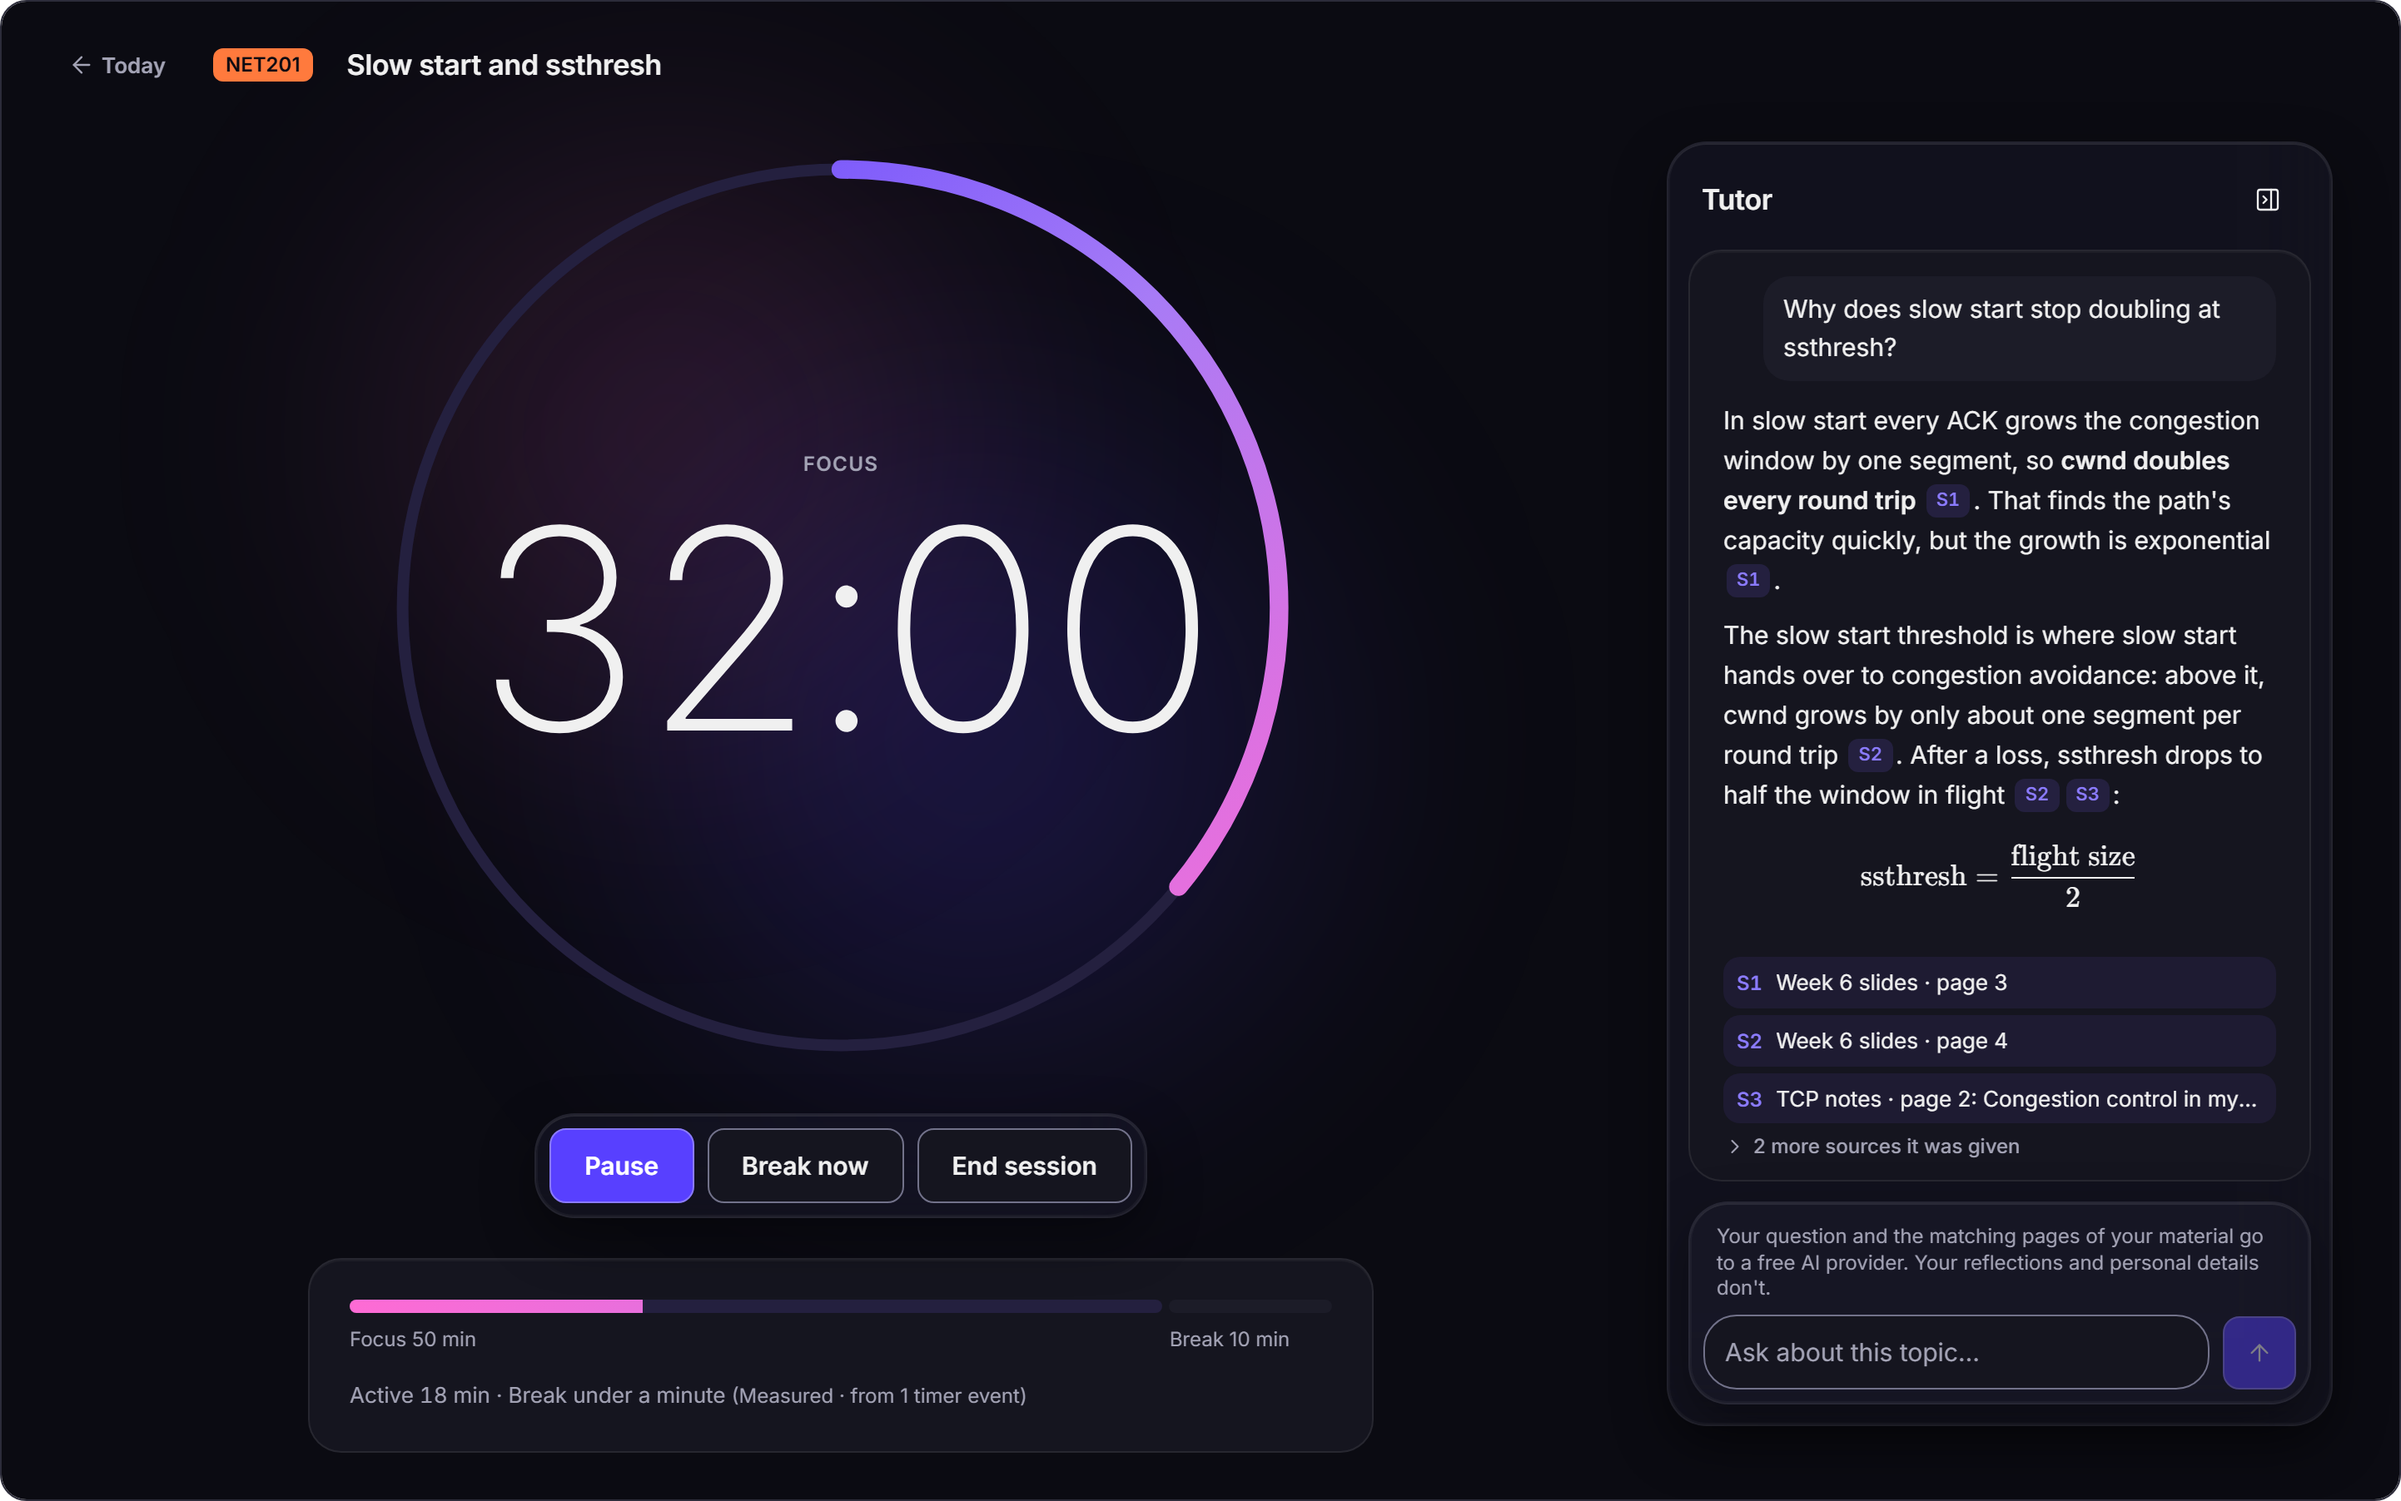
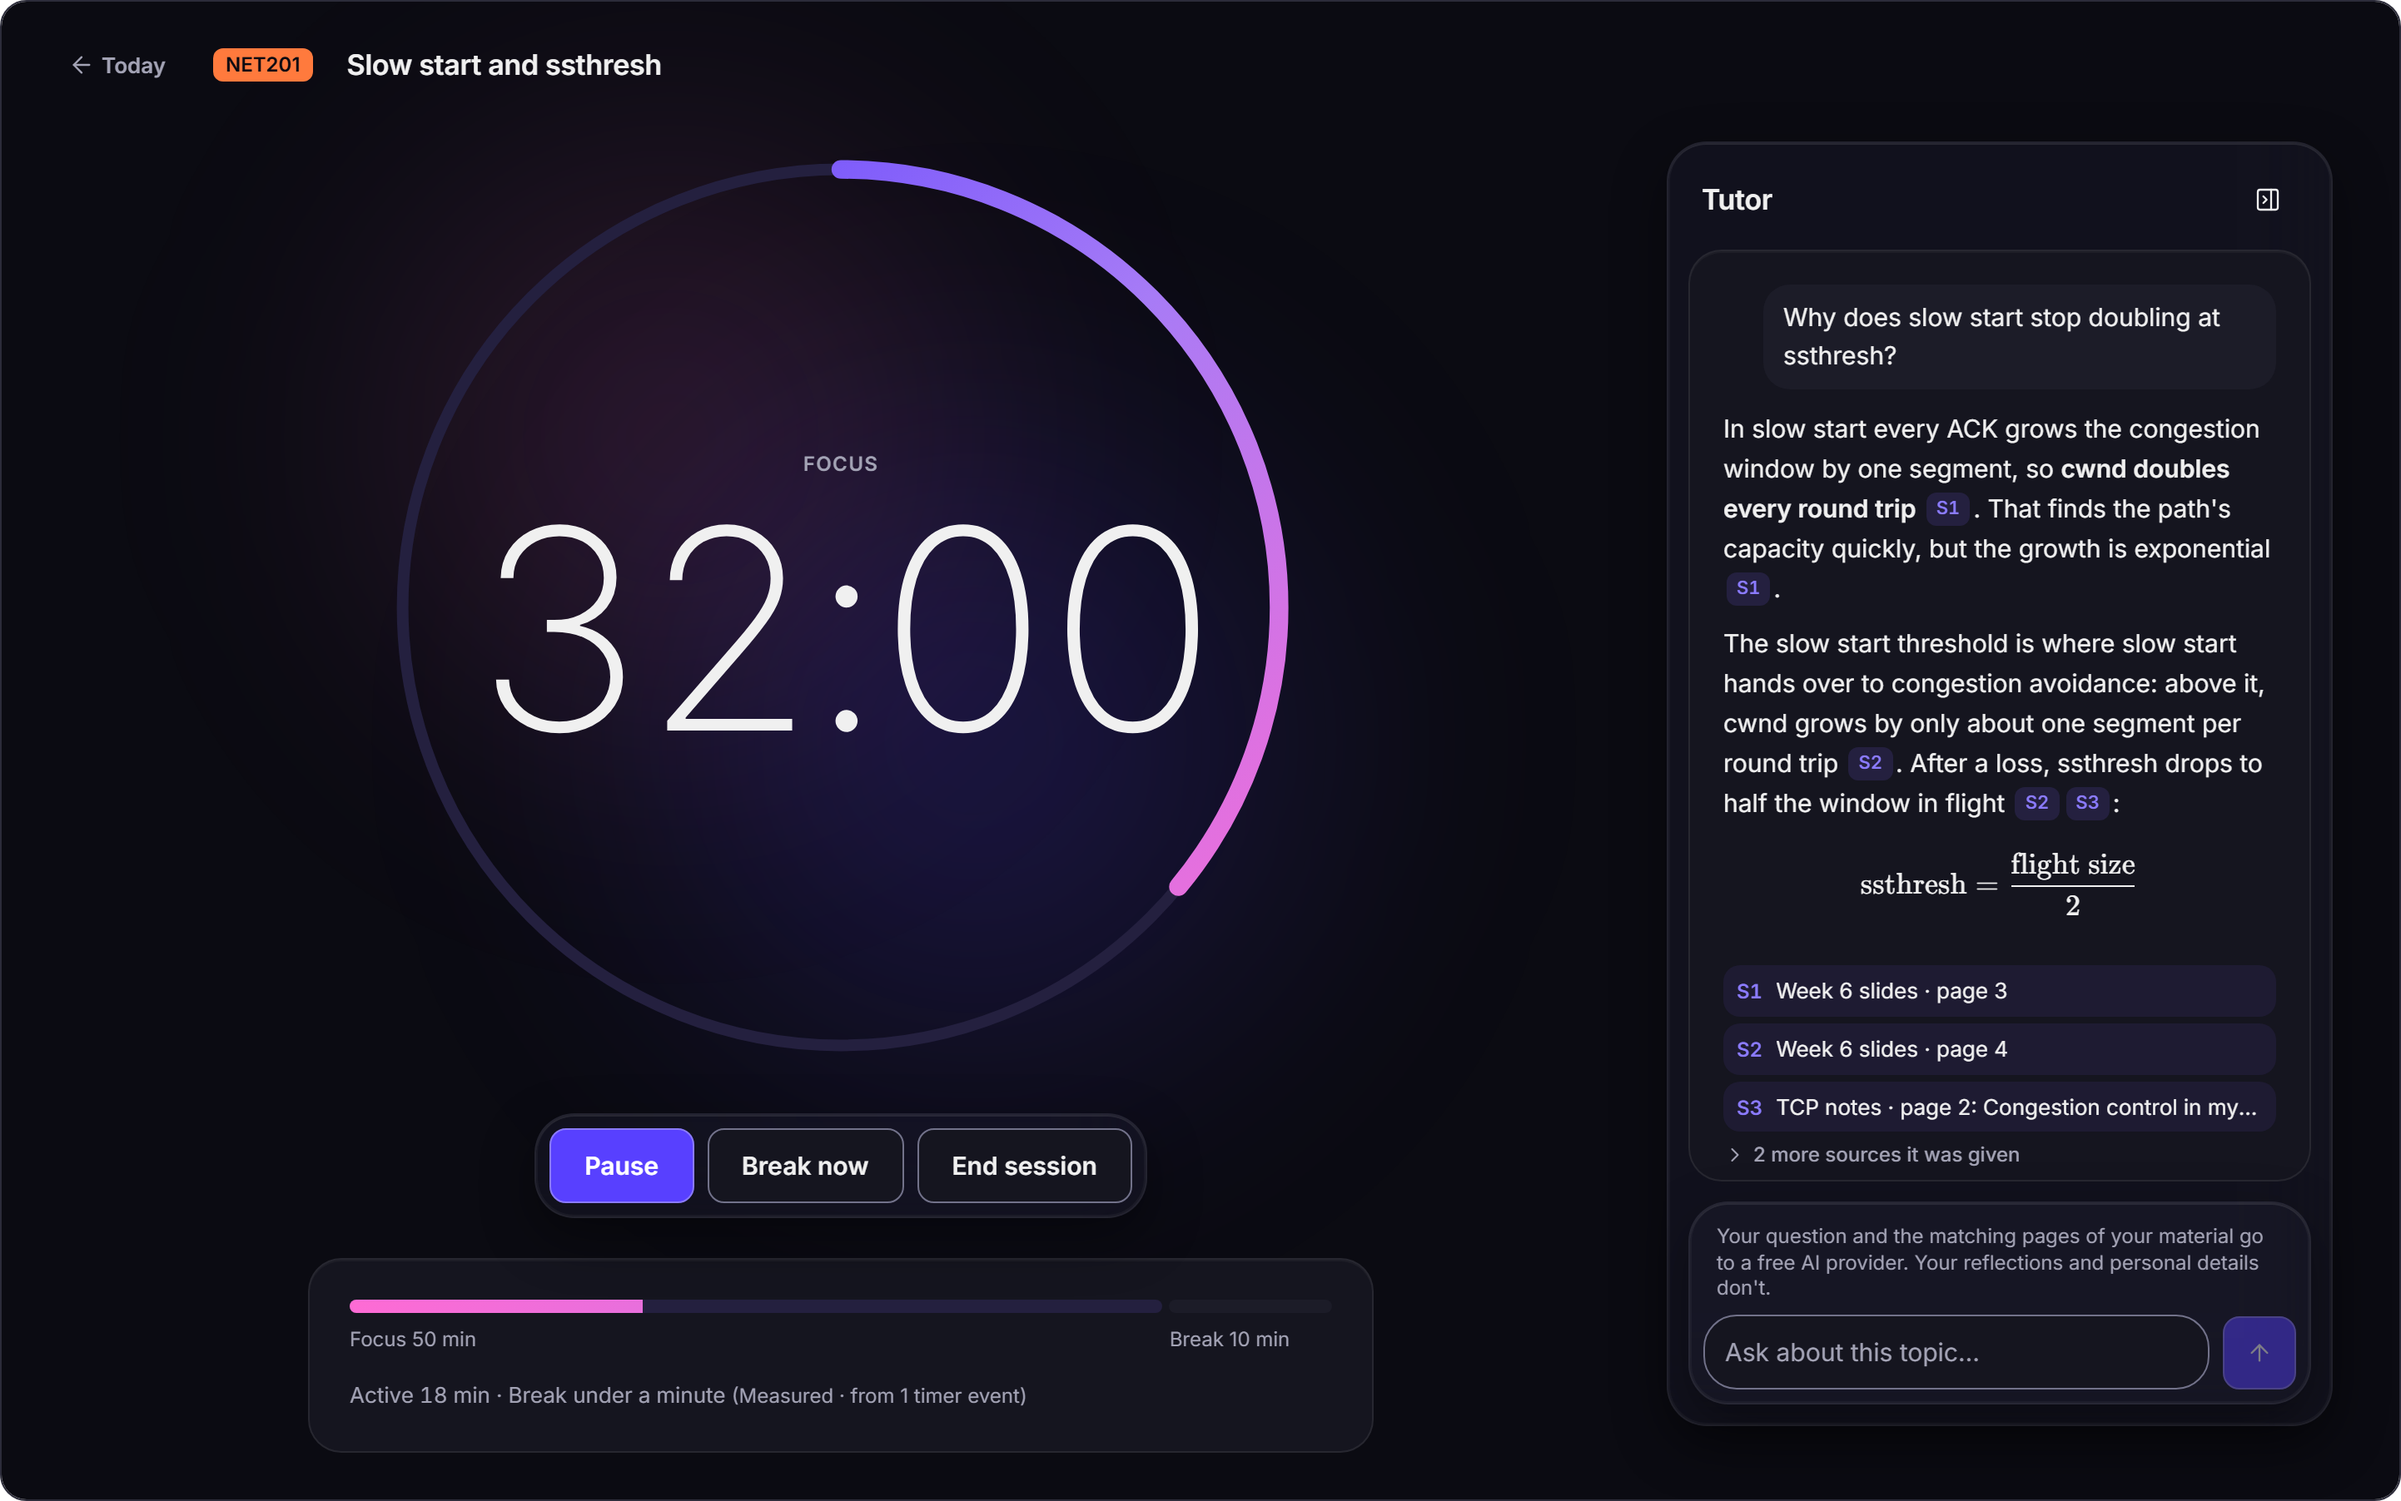
feat: a quiz screenshot (demo fixture quiz), and the session shot shows the answer

Changed region(s): [[0.7178, 0.2794, 0.9362, 0.6208], [0.7178, 0.6519, 0.9362, 0.7761], [0.749, 0.1863, 0.9362, 0.2483]]

diff --git a/apps/api/scripts/demo_seed.py b/apps/api/scripts/demo_seed.py
@@ -12,7 +12,7 @@ and linked to the chunks the way the app does it (cited pages plus local similar
 
 It also opens a study session 18 minutes before ``now``, with one tutor exchange about it: a
 question and a stored answer written for the demo (no AI call), citing the demo's own pages,
-so the session screenshot shows the tutor panel.
+then a "Quiz me" on it, so the session and quiz screenshots show the tutor panel.
 """
 
 import argparse
@@ -42,6 +42,7 @@ from app.models import (
 from app.schemas.academics import AssessmentCreate, ModuleCreate, TaskCreate, TopicCreate
 from app.schemas.materials import MaterialKind
 from app.schemas.sessions import EventBatch, ReflectionIn, SessionStart
+from app.schemas.tutor import Quiz
 from app.services.academics import assessments, modules, tasks, topics
 from app.services.materials import upload_material
 from app.services.search.embedding import get_embedder
@@ -188,6 +189,48 @@ TUTOR_SOURCES = [
     ("S4", "Week 6 slides", 5, False),
     ("S5", "Week 6 slides", 6, False),
 ]
+
+# "Quiz me" on that answer: original questions on the demo's own slides (no AI call).
+TUTOR_QUIZ = {
+    "questions": [
+        {
+            "prompt": "In slow start, how does cwnd grow?",
+            "options": [
+                "By one segment per round trip",
+                "It doubles every round trip",
+                "It halves after every ACK",
+                "It stays fixed until a loss",
+            ],
+            "correct": 1,
+            "explanation": "Each ACK adds one segment, so cwnd doubles every round trip [S1].",
+            "sources": ["S1"],
+        },
+        {
+            "prompt": "What happens to ssthresh after a loss?",
+            "options": [
+                "It is set to half the window in flight",
+                "It doubles",
+                "It is reset to one segment",
+                "It is left unchanged",
+            ],
+            "correct": 0,
+            "explanation": "After a loss ssthresh is set to half the window in flight [S2].",
+            "sources": ["S2"],
+        },
+        {
+            "prompt": "Above ssthresh, how much does cwnd grow per round trip?",
+            "options": [
+                "It doubles",
+                "About one segment",
+                "Half a window",
+                "Nothing until the next loss",
+            ],
+            "correct": 1,
+            "explanation": "Above it cwnd grows by about one segment per round trip [S2].",
+            "sources": ["S2"],
+        },
+    ]
+}
 
 # (topic, description, children: (name, description, cited pages as (material, page)))
 TREE = [
@@ -526,10 +569,49 @@ async def seed(now: datetime) -> None:
             for label, material, page, cited in TUTOR_SOURCES
         ]
         db.add(answer)
+        db.add(
+            Message(
+                user_id=uid,
+                conversation_id=conversation.id,
+                position=2,
+                role="user",
+                mode="quiz",
+                text="Quiz me",
+                status="complete",
+            )
+        )
+        quiz = Message(
+            user_id=uid,
+            conversation_id=conversation.id,
+            position=3,
+            role="assistant",
+            mode="quiz",
+            text="Quiz: 3 questions.",
+            status="complete",
+            model="groq/openai/gpt-oss-120b",
+            total_ms=2400,
+            quiz=Quiz.model_validate(TUTOR_QUIZ).model_dump(mode="json"),
+            quiz_answers=[None, None, None],
+        )
+        quiz.sources = [
+            MessageSource(
+                user_id=uid,
+                label=label,
+                rank=int(label[1:]),
+                material_id=materials[material],
+                material_title=material,
+                page_number=page,
+                page_title=page_titles.get((materials[material], page)),
+                cited=label in ("S1", "S2"),
+            )
+            for label, material, page, _ in TUTOR_SOURCES
+        ]
+        db.add(quiz)
         await db.commit()
     print(
         f"Demo seeded: NET201, {len(files)} materials ({ran} jobs), {len(week)} sessions "
-        f"and one open, {len(topic_ids)} topics, {links} chunk links, one tutor exchange."
+        f"and one open, {len(topic_ids)} topics, {links} chunk links, "
+        "one tutor exchange and a quiz."
     )
     await get_engine().dispose()
 

diff --git a/README.md b/README.md
@@ -41,8 +41,9 @@ light or dark to match your GitHub theme.
 
 | | |
 | --- | --- |
-| <picture><source media="(prefers-color-scheme: dark)" srcset="docs/assets/screenshots/today-dark.png" /><img src="docs/assets/screenshots/today-light.png" alt="Today" /></picture> **Today:** countdowns and upcoming deadlines | <picture><source media="(prefers-color-scheme: dark)" srcset="docs/assets/screenshots/session-dark.png" /><img src="docs/assets/screenshots/session-light.png" alt="A study session" /></picture> **Session:** the focus timer, 18 minutes in |
+| <picture><source media="(prefers-color-scheme: dark)" srcset="docs/assets/screenshots/today-dark.png" /><img src="docs/assets/screenshots/today-light.png" alt="Today" /></picture> **Today:** countdowns and upcoming deadlines | <picture><source media="(prefers-color-scheme: dark)" srcset="docs/assets/screenshots/session-dark.png" /><img src="docs/assets/screenshots/session-light.png" alt="A study session" /></picture> **Session:** the focus timer, 18 minutes in, with the tutor's cited answer |
 | <picture><source media="(prefers-color-scheme: dark)" srcset="docs/assets/screenshots/topics-dark.png" /><img src="docs/assets/screenshots/topics-light.png" alt="Topics" /></picture> **Topics:** a topic's cited and similar pages | <picture><source media="(prefers-color-scheme: dark)" srcset="docs/assets/screenshots/viewer-dark.png" /><img src="docs/assets/screenshots/viewer-light.png" alt="Viewer" /></picture> **Viewer:** a search for "slow start threshold", opened at the slide |
+| <picture><source media="(prefers-color-scheme: dark)" srcset="docs/assets/screenshots/quiz-dark.png" /><img src="docs/assets/screenshots/quiz-light.png" alt="Tutor quiz" /></picture> **Quiz me:** three questions on the tutor's sources, graded in code | |
 
 ## Engineering highlights
 
